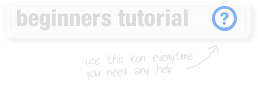
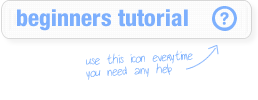
fixed images and templates position

diff --git a/stylesheets/styles.css b/stylesheets/styles.css
@@ -51,7 +51,7 @@ body {
 .slides > article {
   left: 50%;
   margin-left: -400px;
-  margin-top: -330px;
+  margin-top: -325px;
   overflow: hidden;
   padding: 40px 60px;
   position: absolute;
